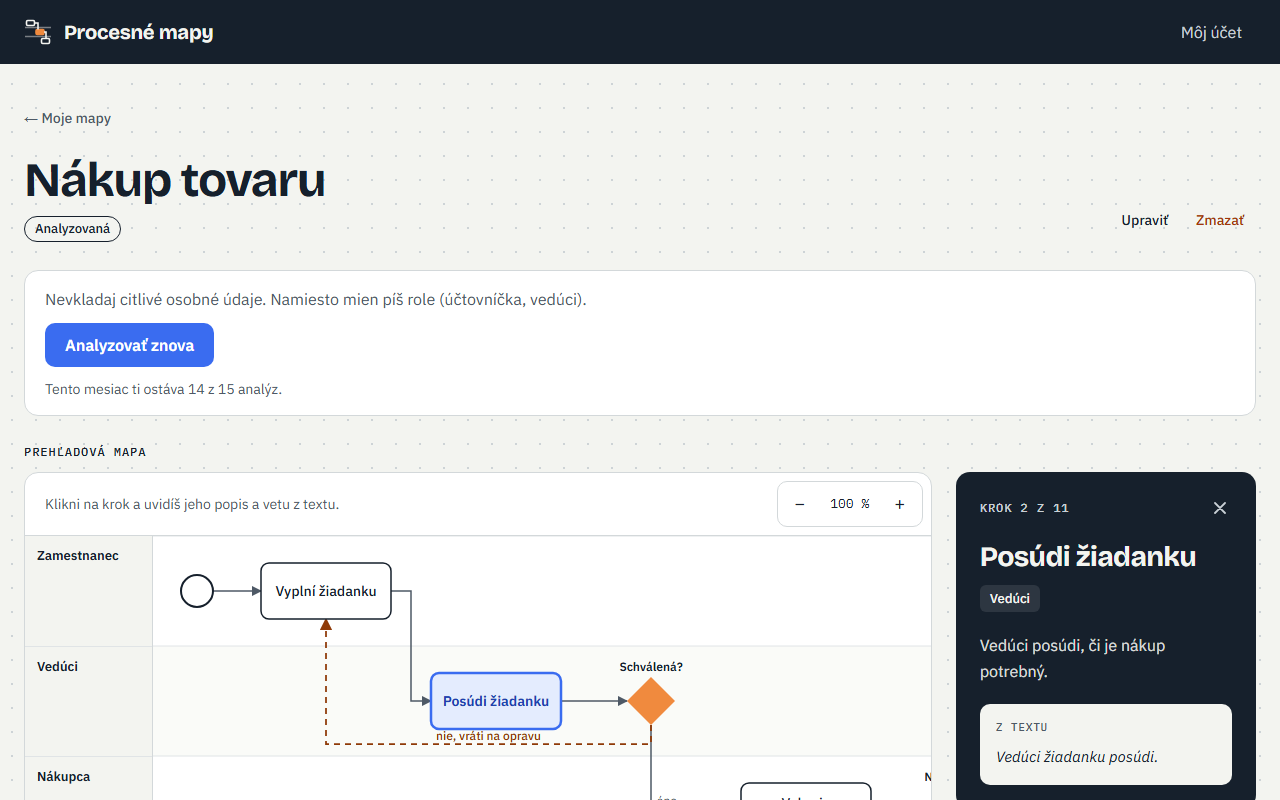
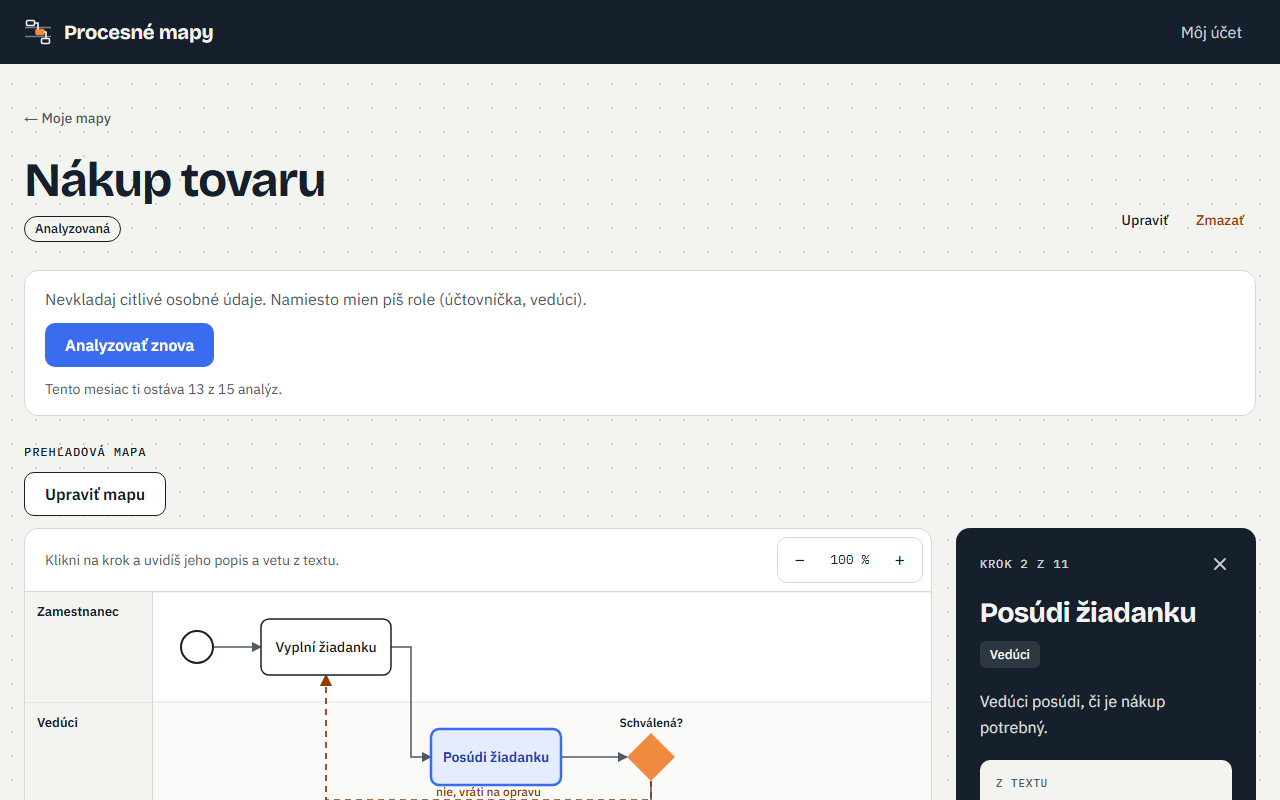
Dokumentácia podľa stavu z 2026-10-18.

diff --git a/index.md b/index.md
@@ -29,7 +29,7 @@ Zatiaľ chýba potvrdzujúci e-mail po zrušení účtu.
 
 Nová mapa vzniká z textu, ktorý vložíš alebo napíšeš. Môže to byť aj skopírovaný zápis či prepis zo stretnutia.
 
-- Text má 30 až 30 000 znakov, počítadlo pod poľom ukazuje, koľko sa ešte zmestí.
+- Text má 30 až 30 000 znakov, počítadlo pod poľom ukazuje, koľko sa ešte zmestí. Pole sa prispôsobí oknu a potiahnutím za roh sa dá zväčšiť.
 - Názov je nepovinný, najviac 30 znakov. Bez názvu mapu pomenuje AI pri analýze.
 - Zoznam „Moje mapy“ ukazuje názov, dátum, čas a stav každej mapy, najnovšie hore. Kým nemáš žiadnu mapu, stránka ukáže znudené oranžové rozhodnutie a tlačidlo „Dať mu prácu“, ktoré vedie na novú mapu.
 - Text aj názov sa dajú kedykoľvek upraviť.
@@ -55,7 +55,7 @@ Mapa ukazuje:
 
 Po kliknutí na krok vidíš jeho popis a vetu z tvojho textu, z ktorej ho AI vyvodila. Mapa je v jazyku textu. Na počítači ju posunieš ťahaním myšou, na mobile ju posúvaš a zväčšuješ prstami.
 
-![Detail kroku: popis a veta z textu, z ktorej ho AI vyvodila](obrazky/detail-kroku.png)
+![Detail kroku: popis a veta z textu, z ktorej ho AI vyvodila, nad mapou tlačidlo „Upraviť mapu“](obrazky/detail-kroku.png)
 
 Analýza beží aj po zatvorení okna. Keď v texte nie je proces, aplikácia nič nenakreslí a poradí, čo doplniť. Pri výpadku sa pokus do limitu nezapočíta.
 
@@ -95,11 +95,25 @@ Detaily patria k verzii mapy. Nová analýza začína bez rozpísaných krokov a
 
 ![Staršia verzia mapy: rozpísaný krok sa dá otvoriť cez „Zobraziť detail“](obrazky/starsia-verzia.png)
 
+## Ručná úprava mapy
+
+Keď AI niečo pochopí zle, mapu opravíš sám a nemusíš míňať analýzu. Tlačidlo „Upraviť mapu“ je pri platnej verzii mapy, upravuje sa na počítači.
+
+- Prepíšeš názov a popis kroku, otázku rozhodnutia aj názvy vetiev.
+- Pridáš krok, ktorý AI vynechala, alebo zmažeš krok navyše. Mapa môže mať najviac 25 krokov.
+- Šípky kreslíš, mažeš a pomenúvaš, aj tie, ktoré vedú späť.
+- Krok potiahneš do iného pásu, a tým mu zmeníš rolu. Pás premenuješ, posunieš hore alebo dole, alebo pridáš nový.
+- Počas úpravy máš „Späť“ a „Znova“, zmeny „Uložíš“ alebo „Zrušíš“.
+
+Prvé uloženie založí verziu „Upravená ručne“ a návrh od AI ostane ako staršia verzia. Zmenený krok má značku „Upravené ručne“, pridaný krok má namiesto vety z textu „Pridané ručne“ a dá sa rozpísať. Detaily krokov sa do novej verzie prenesú.
+
+![Úprava mapy: vybraný krok s názvom, popisom a pásom, tlačidlá na pridanie krokov a „Späť“, „Znova“, „Zrušiť“, „Uložiť“](obrazky/uprava-mapy.png)
+
 ## Čo zatiaľ nevie a čo príde ďalej
 
 Dnes appka berie len vložený text. V tomto poradí prídu:
 
-1. Ručná úprava mapy, keď AI niečo pochopila zle.
+1. Dokončenie ručnej úpravy: rozhodnutia a súbežné cesty, voľné rozmiestnenie krokov a zachovanie opráv pri novej analýze.
 2. Posielanie mapy odkazom niekomu inému.
 3. Nahratie dokumentu (Word, PDF…) ako vstupu.
 4. Nahratie záznamu alebo prepisu stretnutia.
